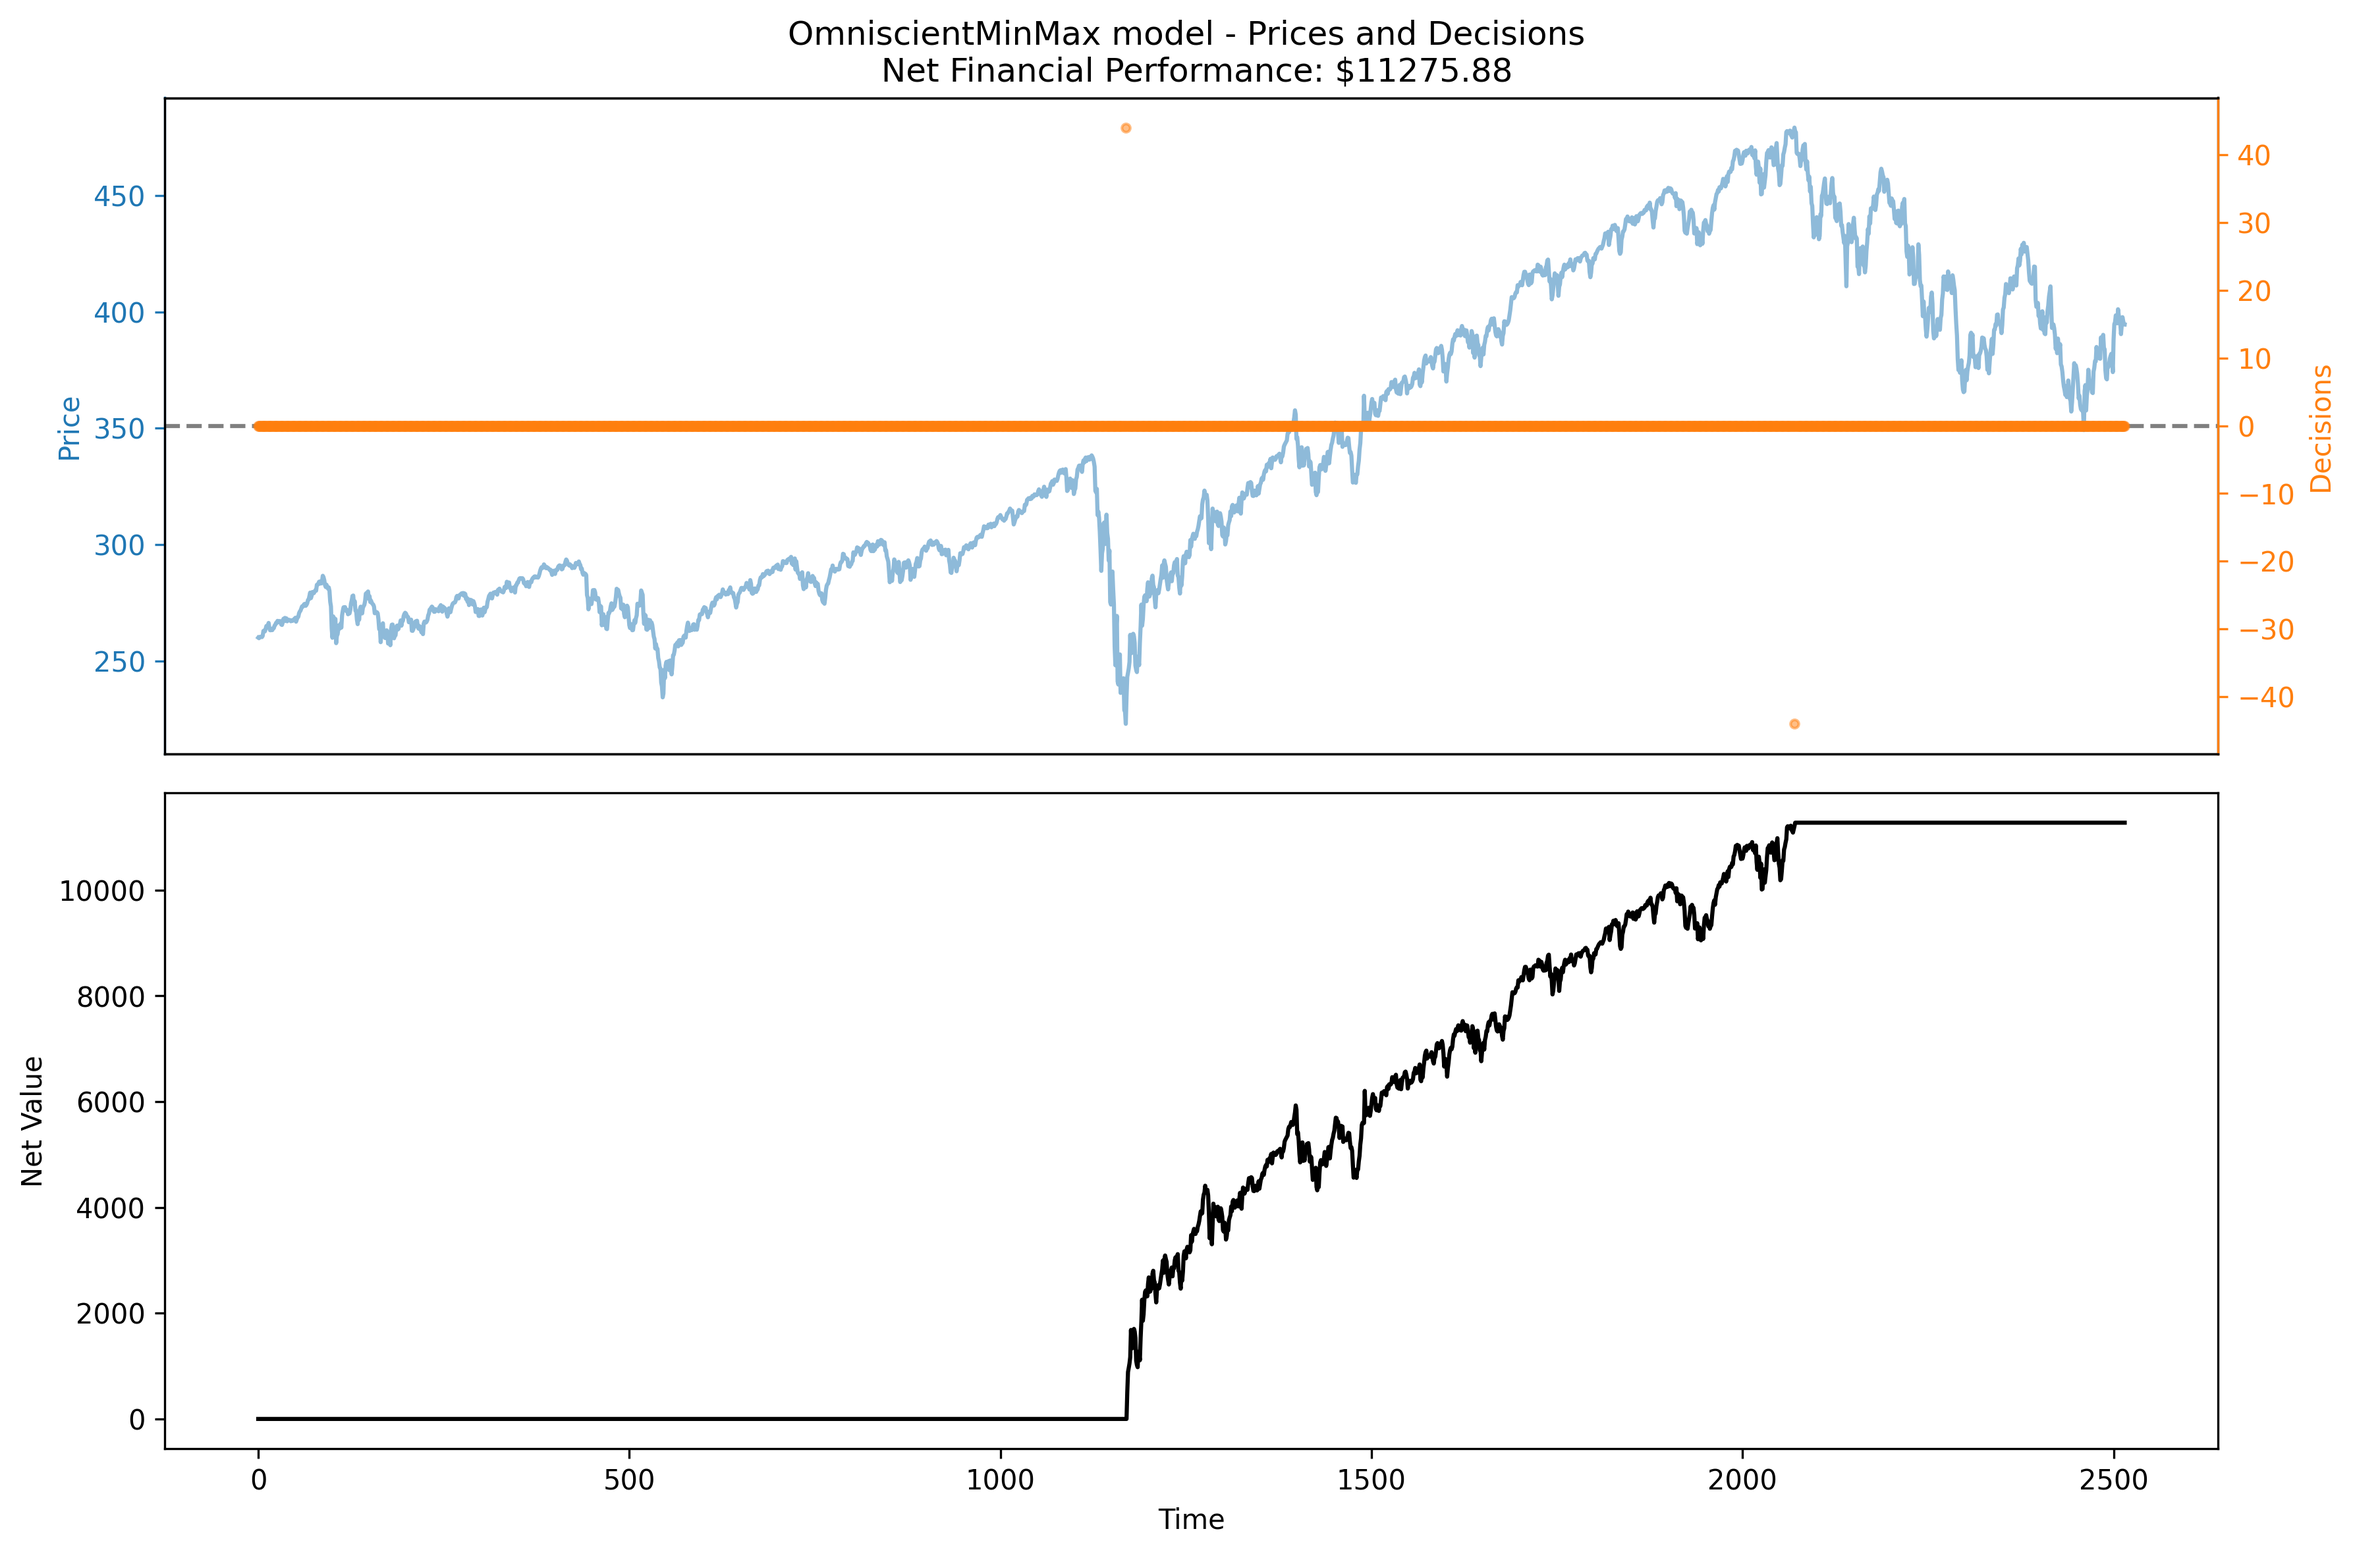
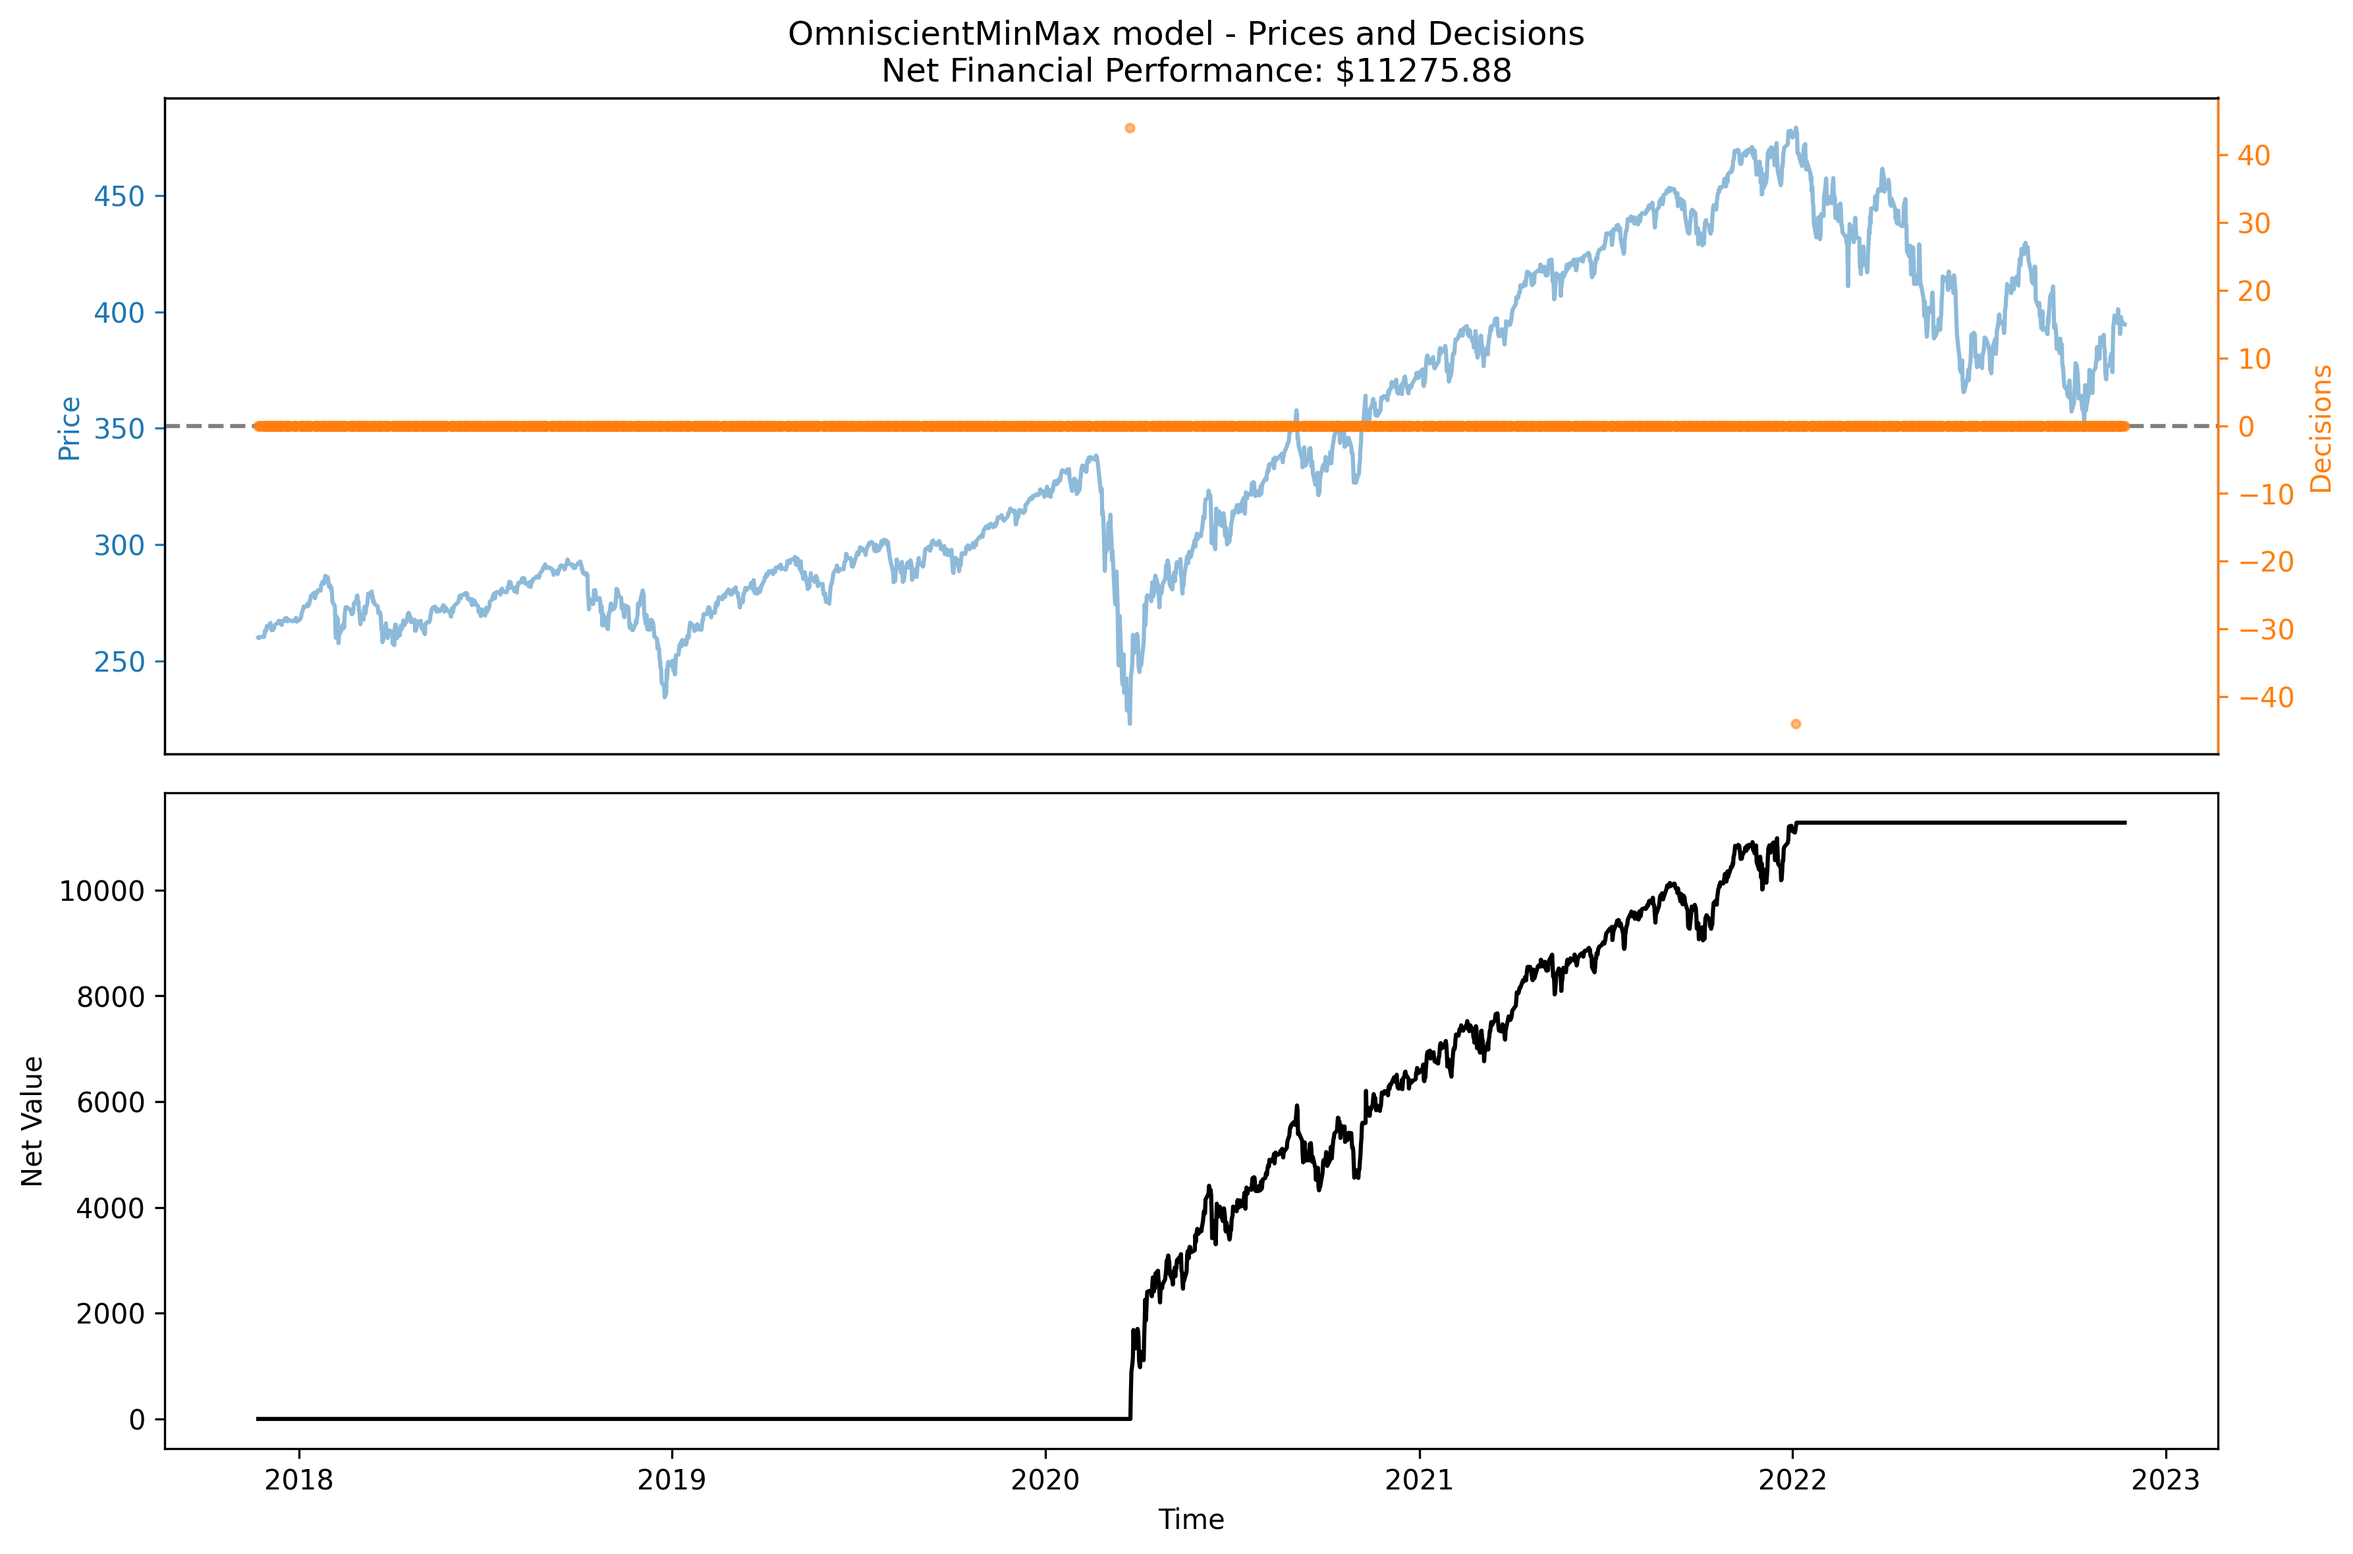
updated time axis to show actual timestamps; playing around with variance models

diff --git a/src/util/std_dev_detail.py b/src/util/std_dev_detail.py
@@ -9,6 +9,7 @@ Created on Fri Nov 25 00:46:00 2022
 
 import numpy as np
 from scipy.stats import norm
+from collections import deque
 
 # internal
 from util.model import Model, default_budget
@@ -20,11 +21,13 @@ class StdDevDetail(Model):
             mode='sd_diff',
             scale=1,
             window=100,
+            conserve=False,
     ):
         super().__init__(budget)
         self.window = window
         self.mode = mode
         self.scale = scale
+        self.conserve = conserve
         
         # state for tracking sample stats
         self.sum = 0
@@ -32,10 +35,14 @@ class StdDevDetail(Model):
         self.count = 0
         self.mu = None
         self.sd = None
+        self.num_bought = 0
+        self.tot_cost = 0
+        self.avg_price = None
         
         # series data for introspection
         self.min = None
         self.max = None
+        self.vals = deque(maxlen=window) if window else None
         self.mins = []
         self.maxs = []
         self.mus = []
@@ -52,6 +59,32 @@ class StdDevDetail(Model):
         price = snapshot[-1]
         n = len(snapshot)
         
+        # running stats
+        self.sum += price
+        self.sumSq += price ** 2
+        self.count += 1
+        
+        if self.window is not None:
+            # apply window
+            if self.count > self.window:
+                self.sum -= snapshot[-self.count]
+                self.sumSq -= snapshot[-self.count]**2
+                self.count -= 1
+                
+                # check to see if min or max is leaving the window
+                if self.vals[0] == self.min:
+                    self.min = None
+                if self.vals[0] == self.max:
+                    self.max = None
+                for i in range(1, len(self.vals)):
+                    if self.min is None or self.min > self.vals[i]:
+                        self.min = self.vals[i]
+                    if self.max is None or self.max < self.vals[i]:
+                        self.max = self.vals[i]
+            
+            # append to vals, pushing vals[0] out of window
+            self.vals.append(price)
+        
         # min and max
         if self.min is None or self.min > price:
             self.min = price
@@ -59,17 +92,6 @@ class StdDevDetail(Model):
             self.max = price
         self.mins.append(self.min)
         self.maxs.append(self.max)
-        
-        # running stats
-        self.sum += price
-        self.sumSq += price ** 2
-        self.count += 1
-        
-        # apply window
-        if self.window is not None and self.count > self.window:
-            self.sum -= snapshot[-self.count]
-            self.sumSq -= snapshot[-self.count]**2
-            self.count -= 1
         
         # calculate mean
         self.mu = self.sum/self.count
@@ -144,5 +166,19 @@ class StdDevDetail(Model):
         else:
             self.overs.append(0)
             self.overshares.append(0)
+            
+        # check held stock value to make sure not to sell at a loss
+        if x < 0 and self.conserve and price < self.avg_price:
+            x = 0
+            cost = 0
+        
+        # update held stock value
+        self.tot_cost += cost
+        self.num_bought += x
+        self.avg_price = self.tot_cost/self.num_bought\
+            if self.num_bought\
+            else None
+        
         self.costs.append(price * x)
+        
         return x

diff --git a/src/util/data.py b/src/util/data.py
@@ -11,8 +11,10 @@ import numpy as np
         
 
 # Extract the data
-df = pd.read_csv('data/SPY.csv')\
-    .sort_values(by='Date')
+df = pd.read_csv(
+        'data/SPY.csv',
+        parse_dates = ['Date']
+    ).sort_values(by='Date')
 
 # Convert into a one dimensional list
 _data = []
@@ -22,7 +24,7 @@ for day in df['Date']:
     _data.append(row['Close'])
 one_dim = np.array(_data).ravel()
 
-# Figure out the global min and global max to support the creation of OmniscientMinMax
+# Find global min and global max to use in OmniscientMinMax
 optimal_buy = None
 optimal_sell = None
 min_price = None
@@ -35,7 +37,16 @@ for i, d in enumerate(one_dim):
     if max_price is None or max_price < d:
         max_price = d
         optimal_sell = i
-# NOTE: luckily, for this dataset the global min preceeds global max
-#       therefore the optimal strategy is simple
-# optimal_buy = 1169
-# optimal_sell = 2070
+
+# ----- create a DataFrame with estimated timestamps
+_dates = []
+for date in df['Date']:
+    type(date)
+    # # accurate open/close times
+    # dates.append(date + pd.Timedelta(minutes=570)) # open
+    # dates.append(date + pd.Timedelta(hours=16)) # close
+    
+    # regular open/close times
+    _dates.append(date + pd.Timedelta(hours=6)) # open
+    _dates.append(date + pd.Timedelta(hours=18)) # close
+df_w_dates = pd.DataFrame(one_dim, columns=['Price'], index=_dates)

diff --git a/src/evaluate_models.py b/src/evaluate_models.py
@@ -18,7 +18,7 @@ plt.ioff() # disable interactive plotting
 
 # internal
 from util.model import Model, default_budget
-from util.data import one_dim
+from util.data import one_dim, df_w_dates
 from util.std_dev import ReactiveStdDev
 from util.revmo import ReverseMomentum
 
@@ -178,7 +178,7 @@ def plot_decisions(
         show_plot=False,
         save_fig=False,
 ):
-    xx = range(len(one_dim))
+    xx = df_w_dates.index.values
     
     price_color = 'tab:blue'
     value_color = 'tab:orange'

diff --git a/src/exp_std_dev.py b/src/exp_std_dev.py
@@ -238,6 +238,9 @@ def main():
     model = StdDevDetail(scale=68.6)
     run_model('sd_diffs_cheat', model, save_fig=save_fig)
     
+    model = StdDevDetail(scale=68.6, conserve=True)
+    run_model('sd_diffs_conserve', model, save_fig=save_fig)
+    
     # model = StdDevDetail(scale='max')
     # run_model('sd_diffs_minmax', model, save_fig=save_fig)
     
